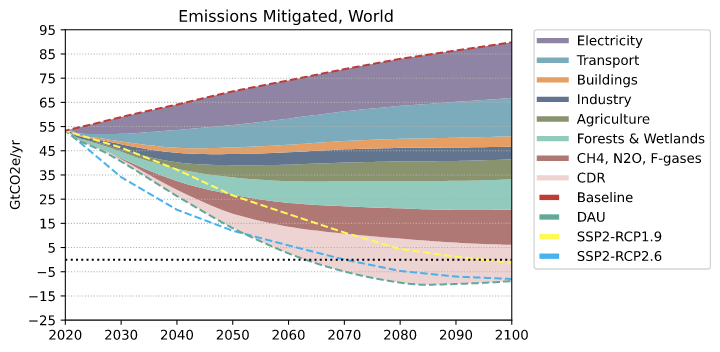
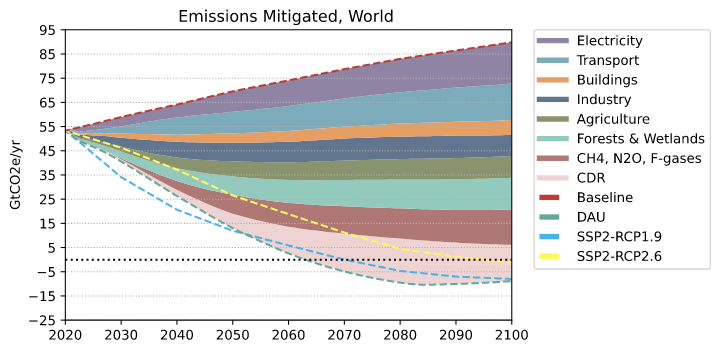
charts

diff --git a/podi/charts.py b/podi/charts.py
@@ -72,9 +72,9 @@ def charts(energy_demand_baseline, energy_demand_pathway):
 
     axis_label = [
         "% TFC met by renewables",
-        "Buildings electricity demand as % \of Buildings TFC",
-        "Transport electricity demand as % \of Transport TFC",
-        "Industry electricity demand as % \of Industry TFC",
+        "% Transport TFC met by electricity & biofuels",
+        "% Buildings TFC met by electricity & renewable heat",
+        "% Industry TFC met by electricity & renewable heat",
         "MHa",
         "MHa",
         "GtCO2 removed",
@@ -97,8 +97,8 @@ def charts(energy_demand_baseline, energy_demand_pathway):
                 color=(0, 0, 0),
             )
             ax.set_ylabel("% Adoption")
-            # secax = ax.secondary_yaxis("right")
-            # secax.set_ylabel(axis_label[j])
+            secax = ax.secondary_yaxis("right")
+            secax.set_ylabel(axis_label[j])
             plt.xlim([adoption_curves.columns.min(), adoption_curves.columns.max()])
             plt.ylim(0, 105)
             plt.grid(which="major", linestyle=":", axis="y")
@@ -200,13 +200,6 @@ def charts(energy_demand_baseline, energy_demand_pathway):
     )
 
     em_mit_othergas = em_mitigated.loc[slice(None), "Other gases", :].sum()
-    """
-    em_mit_cdr = (
-        pd.Series(pd.read_csv(cdr_emissions).loc[data_start_year, long_proj_end_year])
-        .groupby("Metric")
-        .sum()
-    )
-    """
 
     em_mit_cdr = pd.Series(
         cdr_needed_def, index=np.arange(data_start_year, long_proj_end_year + 1)
@@ -252,8 +245,8 @@ def charts(energy_demand_baseline, energy_demand_pathway):
         Line2D([0], [0], color=color[1], linewidth=4),
         Line2D([0], [0], color=color[12], linewidth=4, linestyle="--"),
         Line2D([0], [0], color=color[10], linewidth=4, linestyle="--"),
-        Line2D([0], [0], color=color[11], linewidth=4, linestyle="--"),
         Line2D([0], [0], color=color[9], linewidth=4, linestyle="--"),
+        Line2D([0], [0], color=color[11], linewidth=4, linestyle="--"),
     ]
 
     # endregion
@@ -1865,6 +1858,44 @@ def charts(energy_demand_baseline, energy_demand_pathway):
     ########################################
 
     # region
+
+    color = (
+        (0.804, 0.868, 0.956),
+        (0.404, 0.332, 0.520),
+        (0.156, 0.472, 0.744),
+    )
+
+    custom_legend = [
+        Line2D([0], [0], color=color[0], linewidth=4),
+        Line2D([0], [0], color=color[1], linewidth=4),
+        Line2D([0], [0], color=color[2], linewidth=4),
+    ]
+
+    for i in range(0, 1):
+        fig = cdr_pathway / 1000
+        plt.figure(i)
+        plt.stackplot(
+            fig.T.index,
+            fig,
+            labels=fig.index,
+            colors=color,
+        )
+        plt.ylabel("GtCO2e/yr")
+        plt.xlim([2020, 2100])
+        plt.legend(
+            custom_legend,
+            [
+                "ExSitu Enhanced Weathering",
+                "Low-Temp Solid Sorbent DAC",
+                "High-temp Liquid Sorbent DAC",
+            ],
+            bbox_to_anchor=(1.05, 1),
+            fontsize="small",
+            loc=2,
+            borderaxespad=0.0,
+        )
+        plt.xticks(np.arange(2020, 2110, 10))
+        plt.title("CO2 Removed via CDR, " + iea_region_list[i])
 
     # endregion
 

diff --git a/main.py b/main.py
@@ -10,7 +10,13 @@ from podi.results_analysis import results_analysis
 import podi.data.iea_weo_etl
 import podi.data.gcam_etl
 import pandas as pd
-from podi.cdr.cdr_util import cdr_needed_def
+from podi.cdr.cdr_util import (
+    cdr_needed_def,
+    grid_em_def,
+    heat_em_def,
+    transport_em_def,
+    fuel_em_def,
+)
 from podi.charts import charts
 from podi.data.iea_weo_etl import iea_region_list
 from podi.adoption_curve import adoption_curve
@@ -176,30 +182,41 @@ em_mitigated = (
 
 # region
 """
-cdr_baseline, cdr_cost_baseline, cdr_energy_baseline = cdr_mix(
-    em_baseline,
-    ef_baseline.loc["Grid"],
-    ef_baseline.loc["Heat"],
-    ef_baseline.loc["Transport"],
-    em_baseline.loc["Fuels"],
-)
+cdr_needed = (
+    abs(
+        em_targets_pathway.loc["Baseline PD20", 2010:]
+        - em_targets_pathway.loc["Pathway PD20", 2010:]
+    )    - em_targets_pathway.loc["Baseline PD20", 2010:] - em_pathway.loc[[' OECD ', 'NonOECD ']].sum())
+"""
+
+cdr_needed = cdr_needed_def[0:81]
+grid_em = grid_em_def
+heat_em = heat_em_def
+transport_em = transport_em_def
+fuel_em = fuel_em_def
 
 cdr_pathway, cdr_cost_pathway, cdr_energy_pathway = cdr_mix(
-    em_pathway.loc["Grid"],
-    ef_pathway.loc["Heat"],
-    ef_pathway.loc["Transport"],
-    em_pathway.loc["Fuels"],
+    cdr_needed, grid_em, heat_em, transport_em, fuel_em, 2020, 2100
 )
+
+cdr_pathway = (
+    pd.DataFrame(cdr_pathway, index=em_mitigated.columns[10:])
+    .T.fillna(0)
+    .iloc[[True, False, True, True], :]
+)
+
 
 # check if energy oversupply is at least energy demand needed for CDR
 
-if consump_cdr_baseline > cdr_energy_baseline:
-    print(
-        "Electricity oversupply does not meet CDR energy demand for Baseline Scenario"
+if (
+    sum(
+        elec_consump_cdr_pathway,
+        heat_consump_cdr_pathway,
     )
-if consump_cdr_pathway > cdr_energy_pathway:
+    > cdr_energy_pathway
+):
     print("Electricity oversupply does not meet CDR energy demand for Pathway Scenario")
-"""
+
 # endregion
 
 ###########

diff --git a/podi/cdr/cdr_util.py b/podi/cdr/cdr_util.py
@@ -143,7 +143,7 @@ cdr_needed_def = [
 """
 Default MtCO2/TWh emissions of grid electricity, from Epic PD21 model.
 """
-GRID_EM_DEF = [
+grid_em_def = [
     0.357,
     0.354,
     0.352,
@@ -239,7 +239,7 @@ Used here in tCO2/t*km (using 1/(1000 * 1.46) conversion factor).
 # from https://www.eia.gov/outlooks/aeo/data/browser/#/?id=51-IEO2019
 TRUCKING_RAT, SHIPPING_RAT, RAIL_RAT = 30.7, 10.5, 2.4
 
-TRANSPORT_EM_DEF = [
+transport_em_def = [
     np.average([0.202, 0.059, 0.023], weights=[TRUCKING_RAT, SHIPPING_RAT, RAIL_RAT])
     / (1000 * 1.46)
     * (END_YEAR - t)
@@ -259,7 +259,7 @@ from https://www.epa.gov/sites/production/files/2018-03/documents/emission-facto
 where it is given as 66.33 kgCO2/mmBTU of heat & steam.
 Used here in tCO2/MWh (using 1/(1000*0.2931) conversion factor).
 """
-HEAT_EM_DEF = [
+heat_em_def = [
     0.226305 * (END_YEAR - t) / (END_YEAR - START_YEAR)
     for t in range(START_YEAR, END_YEAR + 1)
 ]
@@ -269,7 +269,7 @@ Default tCO2/MWh for liquid fuels (assumed to be simply diesel), assumed to decl
 using 10.21 kgCO2/gal from https://www.epa.gov/sites/production/files/2018-03/documents/emission-factors_mar_2018_0.pdf
 and 117,100 Btu/gal (net) for biodiesel from https://tedb.ornl.gov/wp-content/uploads/2020/02/TEDB_Ed_38.pdf#page=391
 """
-FUEL_EM_DEF = [
+fuel_em_def = [
     0.2975 * (END_YEAR - t) / (END_YEAR - START_YEAR)
     for t in range(START_YEAR, END_YEAR + 1)
 ]

diff --git a/podi/cdr/cdr_main.py b/podi/cdr/cdr_main.py
@@ -68,10 +68,10 @@ STORAGE_PAIRINGS = {
 
 def cdr_mix(
     cdr_reqs: list = util.cdr_needed_def,
-    grid_em: list = util.GRID_EM_DEF,
-    heat_em: list = util.HEAT_EM_DEF,
-    transport_em: list = util.TRANSPORT_EM_DEF,
-    fuel_em: list = util.FUEL_EM_DEF,
+    grid_em: list = util.grid_em_def,
+    heat_em: list = util.heat_em_def,
+    transport_em: list = util.transport_em_def,
+    fuel_em: list = util.fuel_em_def,
     start: int = util.START_YEAR,
     end: int = util.END_YEAR,
 ) -> tuple:

diff --git a/podi/results_analysis.py b/podi/results_analysis.py
@@ -66,8 +66,8 @@ def results_analysis(
     energy_demand_baseline.columns = energy_demand_baseline.columns.astype(int)
 
     transport_decarb = (
-        pd.DataFrame(transport_consump_pathway.loc[region, "Biofuels"])
-        .T.droplevel(level=0)
+        pd.DataFrame(transport_consump_pathway.loc[region, "Biofuels", :])
+        .droplevel(level=0)
         .append(energy_demand_pathway.loc[region, "Transport", "Electricity"])
         .sum()
         .div(

diff --git a/README.md b/README.md
@@ -1,36 +1,35 @@
-###################
-Positive Disruption
-###################
+# Positive Disruption Model
 
-Prerequisites
-=============
+
+## Prerequisites
+
 
 1. `Python 3.8 <http://www.python.org/>`_
 2. `pipenv <https://pipenv.pypa.io/>`_
 
-Installation
-============
+## Installation
+
 
 1. Run ``pipenv install``.
 
 That's it.
 
-Usage
-=====
+## Usage
+
 
 1. Run ``pipenv shell``.
 2. While in the virtual environment you can run scripts.
 
-Developing
-==========
+## Developing
 
 1. Run ``pipenv install --dev``.
 2. Run ``pipenv shell`` to get into the virtual environment.
 
 Make sure to run tests and linters before committing: ``make all``
 
-Primer
-==========
+<br/><br/>
+
+# Primer
 
 The model has 7 components:
 
@@ -48,42 +47,45 @@ These components are run sequentially through main.py, and are meant to compare 
 
 
 1. socioeconomic
-==========
+
 - Population
 - GDP
 
 
-
 2. energy_demand
-==========
+
 - Takes historical energy demand, projected energy demand, and applies reductions based on measures such as energy efficiency, shift of heat demand to electricity via heat pumps, transport efficiency, shift from fuels to electricity via electric vehicles, solar thermal energy, and biofuels.
 
 3. energy_supply
-==========
+
 - Takes energy demand estimates, and estimates the technology mix of energy supply. Historical adoption rates and estimated saturation points are used to fit a logistics curve to future adoption.
 
 
 4. afolu
-==========
+
 - 
 
 
 5. emissions
-==========
+
 - Takes energy supply technology mix and emissions factors to estimate energy emissions. These are added to afolu emissions and additional emissions sources from non-energy processes to arrive at a total emission estimate.
 
 
 6. results_analysis
-==========
+
 - 
 
 
 7. charts
-==========
+
 - Produces charts of results
 
-Input Files
-=============
+
+<br/><br/>
+
+
+# Input Files
+
 
 The following files, located in `podi/data <https://github.com/Epic-Institute/positive-disruption/tree/master/podi/data/>`_, serve as inputs to the model scripts.
 
@@ -170,8 +172,7 @@ The following files, located in `podi/data <https://github.com/Epic-Institute/po
   - Used in `energy_demand.py <https://github.com/Epic-Institute/positive-disruption/blob/master/podi/energy_demand.py>`_ where it’s combined with data on energy demand, energy efficiency, solar thermal, heat pump, and biofuels.
 
 
-Project Organization
-------------
+# Project Organization
 
     ├── LICENSE
     ├── Makefile           <- Makefile with commands like `make data` or `make train`
@@ -214,8 +215,5 @@ Project Organization
        │   └── train_model.py
        │
        └── visualization  <- Scripts to create exploratory and results oriented visualizations
-          └── visualize.py
-    
---------
-
+          └── visualize.py   
 <p><small>Project based on the <a target="_blank" href="https://drivendata.github.io/cookiecutter-data-science/">cookiecutter data science project template</a>. </small></p>

diff --git a/podi/cdr/README.md b/podi/cdr/README.md
@@ -8,6 +8,8 @@ The following files play the following roles:
 4. **ecr_types.py:** implements behavior of specific ECR CDR strategies.
 5. **ncs_types.py:** implements behavior of specific NCS CDR strategies.
 
+<br/><br/>
+
 # Module inputs and outputs
 
 Inputs | Outputs
@@ -15,6 +17,8 @@ Inputs | Outputs
 Annual MtCO2 CDR requirements | Cost-optimal mix of CDR capacity in each year, by CDR technology (MtCO2/yr)
 Start year and end year | Total cost in each year (MM$), adjusted for CDR credits
 Emissions intensity of: **1)** Grid electricity (tCO2/TWh), **2)** Heat production (tCO2/MWh), **3)** Transportation (tCO2/t*km), **4)** Liquid fuels (tCO2/MWh) | Annual energy use (TWh), separated into: **1)** Grid electricity, **2)** Heat use, **3)** Transportation, **4)** Liquid fuels
+
+<br/><br/>
 
 # Optimization Process
 
@@ -136,6 +140,6 @@ The optimization takes place in `cdr_main.py` and relies on the CDR strategy fra
 
 Additionally, here are a couple areas with known potential for improvement:
 
-1. This optimization problem is NP-hard, so any exact solution would take impractically long to compute. Therefore, the results of this module are approximate, under the simplifying assumptions outlined above. The nature of the current greedy algorithm (always deploying the cheapest available technology) may also cause it to miss truly optimal solutions within an individual year. For example, if DAC gets cheaper with each MtCO2 deployment, then deploying 100% DAC in a year may be the cost-optimal strategy, even if DAC was not originally the cheapest technology in that year.
+1. The nature of the current greedy algorithm (always deploying the cheapest available technology) may cause it to miss truly optimal solutions within an individual year. For example, if DAC gets cheaper with each MtCO2 deployment, then deploying 100% DAC in a year may be the cost-optimal strategy, even if DAC was not originally the cheapest technology in that year.
 
 2. The optimization model currently runs in about 30 seconds for the full 2020-2100 range when dealing with LTSS-DAC, HTLS-DAC, ExSituEW, and GeologicStorage. At the moment, the cost and energy calculation step in `_add_next_year` (not the technology selection step) take up the most processing time. Future improvements to efficiency should look here first.
